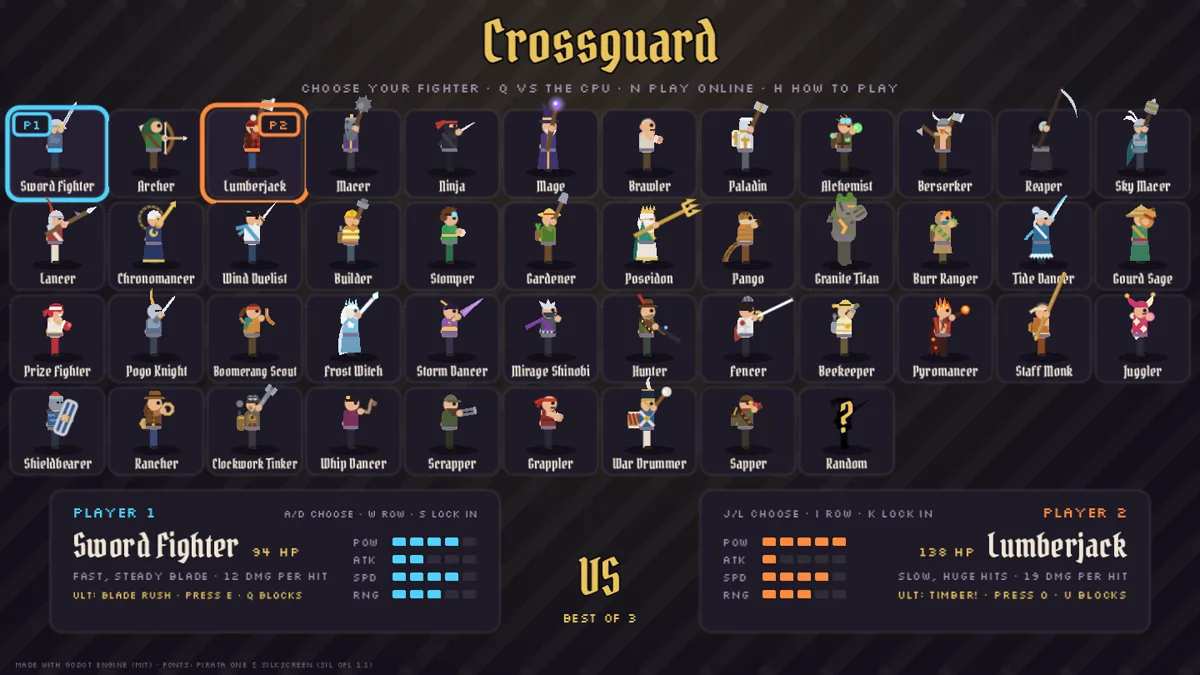
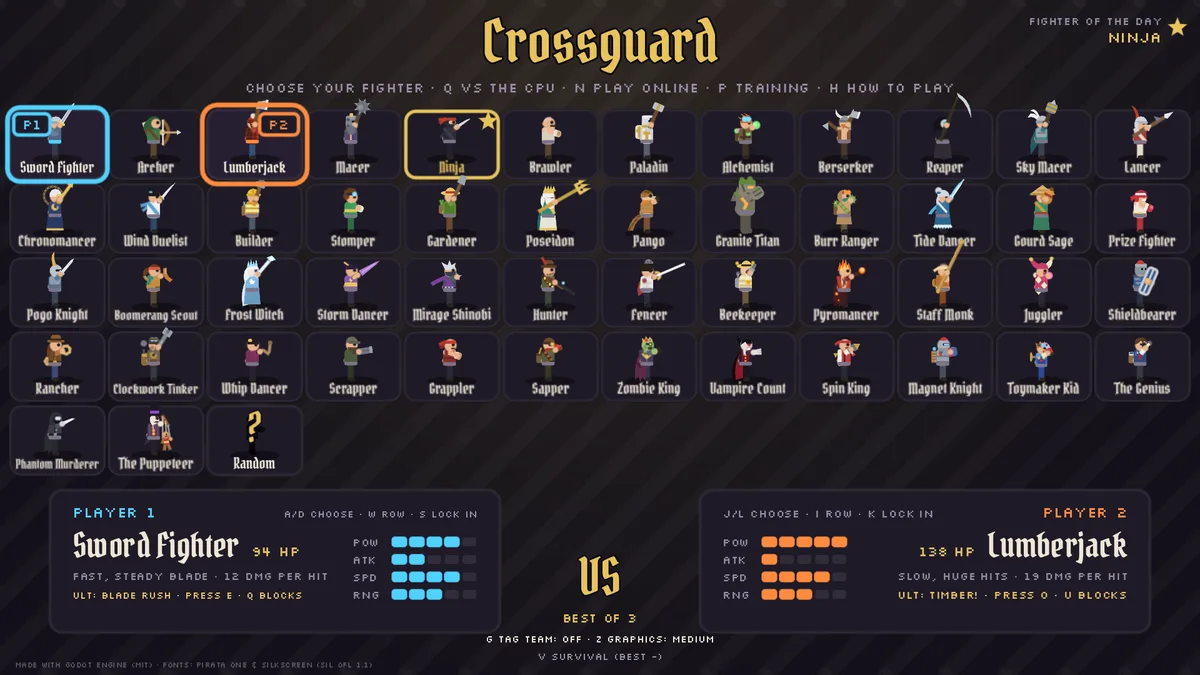
Home page: 50 fighters, new select screenshot

diff --git a/index.html b/index.html
@@ -4,9 +4,9 @@
 <meta charset="utf-8">
 <meta name="viewport" content="width=device-width, initial-scale=1">
 <title>Crossguard: a 2D fighting game</title>
-<meta name="description" content="Crossguard is a fast, hand-drawn 2D fighting game: 44 original fighters, aimable ultimates and best-of-3 matches. Play free in your browser against the CPU or a friend.">
+<meta name="description" content="Crossguard is a fast, hand-drawn 2D fighting game: 50 original fighters, aimable ultimates and best-of-3 matches. Play free in your browser against the CPU or a friend.">
 <meta property="og:title" content="Crossguard">
-<meta property="og:description" content="44 fighters, aimable ultimates, best-of-3 matches. Play free in your browser.">
+<meta property="og:description" content="50 fighters, aimable ultimates, best-of-3 matches. Play free in your browser.">
 <meta property="og:image" content="assets/og.jpg">
 <link rel="preload" as="image" href="assets/hero.webp">
 <meta name="theme-color" content="#14111a">
@@ -29,7 +29,7 @@
   <img class="poster" src="assets/hero.webp" alt="">
   <div class="inner">
     <h1 class="title">Crossguard</h1>
-    <p class="tag">A fast, hand-drawn fighting game. Pick one of 44 fighters, aim your ultimate, and win two rounds before they do.</p>
+    <p class="tag">A fast, hand-drawn fighting game. Pick one of 50 fighters, aim your ultimate, and win two rounds before they do.</p>
     <div class="ctas">
       <a class="btn" href="play/">&#9654;&nbsp; Play free</a>
       <a class="btn ghost" href="#controls">How to play</a>
@@ -42,7 +42,7 @@
   <h2 class="title">Every fight is short and loud</h2>
   <p class="lead">Matches are best of 3, so a game takes a few minutes. Learn a fighter's timing, block at the right moment to stun your attacker, and save your ultimate for the opening.</p>
   <div class="stats">
-    <div class="stat"><b>44</b><span>original fighters, each with their own attack and ultimate</span></div>
+    <div class="stat"><b>50</b><span>original fighters, each with their own attack and ultimate</span></div>
     <div class="stat"><b>11</b><span>arenas, from a beach lagoon to a thunderstorm summit</span></div>
     <div class="stat"><b>9</b><span>ultimates you aim yourself, up, down or behind you</span></div>
     <div class="stat"><b>2</b><span>players on one keyboard, or you against the CPU</span></div>
@@ -59,7 +59,7 @@
 
 <section>
   <div class="feature">
-    <img src="assets/select.webp" alt="The fighter select screen with all 44 fighters" loading="lazy">
+    <img src="assets/select.webp" alt="The fighter select screen with all 50 fighters" loading="lazy">
     <div>
       <h2 class="title">Aim the big one</h2>
       <p class="lead">When the gold bar fills, your ultimate is ready. Nine of them stop for a moment and let you aim: an arrow appears, and you tilt it before you let go.</p>
